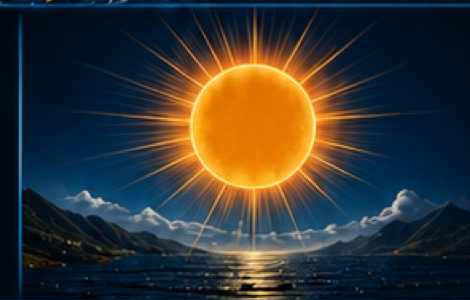
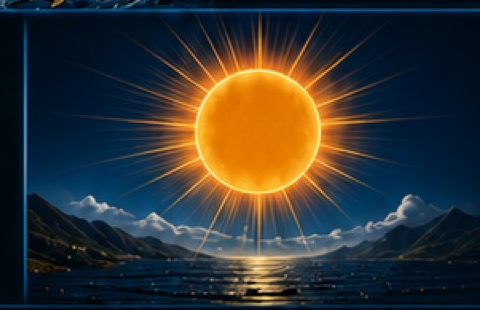
Add files via upload
Update

diff --git a/style.css b/style.css
@@ -5447,3 +5447,363 @@ body.reference-layout-v3 img.premium-weather-scene {
   object-position: center 72% !important;
   border-radius: 8px !important;
 }
+
+/* =========================================================
+   STABLE VISUAL CLOSEOUT — moon clean, activity factors,
+   header fish, hourly, techniques, single titles
+========================================================= */
+
+/* HEADER fish closer to title */
+body.reference-layout-v3 .top-header.final-master-header {
+  display: grid !important;
+  grid-template-columns: 28px minmax(0, 1fr) 64px !important;
+  column-gap: 1px !important;
+  align-items: center !important;
+  padding: 2px 3px !important;
+  overflow: hidden !important;
+}
+body.reference-layout-v3 .top-header .header-brand-lockup.brand-area {
+  display: grid !important;
+  grid-template-columns: 90px minmax(0, 1fr) 90px !important;
+  column-gap: 0 !important;
+  align-items: center !important;
+}
+body.reference-layout-v3 .top-header .header-fish-asset.brand-fish {
+  width: 90px !important;
+  height: 52px !important;
+  object-fit: contain !important;
+}
+body.reference-layout-v3 .top-header .header-fish-left {
+  object-position: 100% 50% !important;
+  transform: translateX(12px) !important;
+}
+body.reference-layout-v3 .top-header .header-fish-right {
+  object-position: 0% 50% !important;
+  transform: translateX(-12px) !important;
+}
+body.reference-layout-v3 .top-header .header-brand-title {
+  font-size: 10px !important;
+  white-space: nowrap !important;
+}
+
+/* MOON — clean sphere, yellow times */
+body.reference-layout-v3 .moon-panel {
+  overflow: hidden !important;
+  display: flex !important;
+  flex-direction: column !important;
+}
+body.reference-layout-v3 .moon-panel .moon-main {
+  display: grid !important;
+  grid-template-columns: 68px 1fr !important;
+  gap: 8px !important;
+  align-items: center !important;
+  padding: 6px 8px 2px !important;
+  overflow: hidden !important;
+}
+body.reference-layout-v3 .moon-panel .master-moon-photo,
+body.reference-layout-v3 .moon-panel img.premium-moon {
+  width: 68px !important;
+  height: 68px !important;
+  border-radius: 50% !important;
+  object-fit: cover !important;
+  object-position: center center !important;
+  display: block !important;
+  background: #0a1018 !important;
+}
+body.reference-layout-v3 .moon-panel .moon-copy strong {
+  font-size: 24px !important;
+  line-height: 1 !important;
+  color: #fff !important;
+}
+body.reference-layout-v3 .moon-panel .moon-copy span {
+  font-size: 9.5px !important;
+  line-height: 1.25 !important;
+  color: #d4eaf6 !important;
+  display: block !important;
+  white-space: normal !important;
+}
+body.reference-layout-v3 .moon-panel .moon-times {
+  display: grid !important;
+  grid-template-columns: 1fr 1fr !important;
+  gap: 6px !important;
+  padding: 4px 10px 6px !important;
+  border-top: 1px solid rgba(90,150,190,0.25) !important;
+}
+body.reference-layout-v3 .moon-panel .moon-times > div {
+  display: flex !important;
+  flex-direction: column !important;
+  gap: 1px !important;
+}
+body.reference-layout-v3 .moon-panel .moon-times > div > svg {
+  display: none !important;
+}
+body.reference-layout-v3 .moon-panel .moon-times span {
+  font-size: 7px !important;
+  color: #9ec5d8 !important;
+}
+body.reference-layout-v3 .moon-panel .moon-times strong {
+  font-size: 12px !important;
+  color: #ffd331 !important;
+  font-weight: 800 !important;
+}
+
+/* HOURLY labels full */
+body.reference-layout-v3 .weather-hour-cell {
+  min-width: 50px !important;
+}
+body.reference-layout-v3 .weather-hour-cell strong {
+  font-size: 6.5px !important;
+  line-height: 1.2 !important;
+  white-space: normal !important;
+  overflow: visible !important;
+  max-height: none !important;
+  display: block !important;
+  text-align: center !important;
+}
+body.reference-layout-v3 .weather-hour-cell > span:last-child {
+  display: block !important;
+  font-size: 8px !important;
+  color: #c5dcec !important;
+  text-align: center !important;
+}
+
+/* SCORE single title */
+body.reference-layout-v3 .score-panel > h2 {
+  display: block !important;
+  font-size: 9px !important;
+  letter-spacing: 0.14em !important;
+  color: #9ecfe8 !important;
+  text-align: center !important;
+  margin: 2px 0 0 !important;
+}
+body.reference-layout-v3 .score-master-photo {
+  display: block !important;
+  width: 100% !important;
+  max-height: 160px !important;
+  object-fit: contain !important;
+}
+body.reference-layout-v3 .score-panel .score-gauge,
+body.reference-layout-v3 .score-panel .score-caption,
+body.reference-layout-v3 .score-panel .score-stars,
+body.reference-layout-v3 .score-panel .score-rod-photo {
+  display: none !important;
+}
+
+/* ACTIVITY — single title, fix factors rows */
+body.reference-layout-v3 .activity-panel {
+  display: flex !important;
+  flex-direction: column !important;
+  padding: 4px 8px 6px !important;
+  overflow: hidden !important;
+}
+body.reference-layout-v3 .activity-panel > h2 {
+  display: block !important;
+  font-size: 9px !important;
+  letter-spacing: 0.12em !important;
+  text-align: center !important;
+  color: #9ecfe8 !important;
+  margin: 2px 0 4px !important;
+  flex-shrink: 0 !important;
+}
+/* Hide any baked title overlay if present */
+body.reference-layout-v3 .activity-panel .activity-art > h2,
+body.reference-layout-v3 .activity-art h2 {
+  display: none !important;
+}
+body.reference-layout-v3 .activity-fish-photo {
+  height: 68px !important;
+  width: auto !important;
+  max-width: 100% !important;
+  object-fit: contain !important;
+  display: block !important;
+  margin: 0 auto !important;
+}
+body.reference-layout-v3 .activity-spectrum {
+  display: flex !important;
+  width: 100% !important;
+  height: 8px !important;
+  margin: 6px 0 2px !important;
+  border-radius: 4px !important;
+  overflow: hidden !important;
+  position: relative !important;
+  background: transparent !important;
+}
+body.reference-layout-v3 .activity-spectrum span {
+  flex: 1 1 0 !important;
+  height: 100% !important;
+}
+body.reference-layout-v3 .activity-spectrum span:nth-child(1) { background: #ff5d4a !important; }
+body.reference-layout-v3 .activity-spectrum span:nth-child(2) { background: #ff8a22 !important; }
+body.reference-layout-v3 .activity-spectrum span:nth-child(3) { background: #ffd331 !important; }
+body.reference-layout-v3 .activity-spectrum span:nth-child(4) { background: #b7e11a !important; }
+body.reference-layout-v3 .activity-spectrum span:nth-child(5) { background: #20d66b !important; }
+body.reference-layout-v3 .activity-spectrum-marker {
+  position: absolute !important;
+  top: 0 !important;
+  bottom: 0 !important;
+  width: 3px !important;
+  background: #fff !important;
+  left: var(--activity-percent, 85%) !important;
+  transform: translateX(-50%) !important;
+  border-radius: 1px !important;
+}
+body.reference-layout-v3 .activity-scale {
+  display: flex !important;
+  justify-content: space-between !important;
+  width: 100% !important;
+  font-size: 7px !important;
+  color: #8eb4c8 !important;
+}
+body.reference-layout-v3 .activity-verdict {
+  text-align: center !important;
+  font-size: 8px !important;
+  color: #c5dcec !important;
+  margin: 3px 0 6px !important;
+  letter-spacing: 0.05em !important;
+  white-space: nowrap !important;
+}
+
+/* CRITICAL: factors as proper rows, not smashed */
+body.reference-layout-v3 .activity-factors,
+body.reference-layout-v3 .activity-list,
+body.reference-layout-v3 #fish-activity-factors {
+  display: flex !important;
+  flex-direction: column !important;
+  gap: 3px !important;
+  width: 100% !important;
+  margin: 0 !important;
+  padding: 0 !important;
+  overflow: visible !important;
+  flex-wrap: nowrap !important;
+}
+body.reference-layout-v3 #fish-activity-factors > div,
+body.reference-layout-v3 .activity-list > div,
+body.reference-layout-v3 .activity-factors > div {
+  display: flex !important;
+  flex-direction: row !important;
+  justify-content: space-between !important;
+  align-items: center !important;
+  width: 100% !important;
+  gap: 8px !important;
+  padding: 1px 0 !important;
+  margin: 0 !important;
+  white-space: nowrap !important;
+  overflow: visible !important;
+  flex-wrap: nowrap !important;
+}
+body.reference-layout-v3 #fish-activity-factors > div > span,
+body.reference-layout-v3 .activity-list > div > span {
+  font-size: 9px !important;
+  color: #a8c8dc !important;
+  flex: 0 0 auto !important;
+}
+body.reference-layout-v3 #fish-activity-factors > div > strong,
+body.reference-layout-v3 .activity-list > div > strong {
+  font-size: 9px !important;
+  color: #3dff9a !important;
+  font-weight: 700 !important;
+  text-align: right !important;
+  flex: 0 0 auto !important;
+}
+
+/* BEST TIMES */
+body.reference-layout-v3 .best-times-strip,
+body.reference-layout-v3 [data-layout-group="best-times"],
+body.reference-layout-v3 .panel.best-times {
+  overflow: hidden !important;
+}
+
+/* TECHNIQUES even gaps */
+body.reference-layout-v3 .technique-section {
+  border: none !important;
+  background: transparent !important;
+  padding: 2px 2px 6px !important;
+  margin: 0 !important;
+}
+body.reference-layout-v3 .technique-section::before {
+  display: none !important;
+}
+body.reference-layout-v3 .technique-heading {
+  margin: 0 0 4px !important;
+  padding: 0 !important;
+}
+body.reference-layout-v3 .technique-heading h2 {
+  font-size: 10px !important;
+  letter-spacing: 0.14em !important;
+  color: #9ecfe8 !important;
+  margin: 0 !important;
+}
+body.reference-layout-v3 .technique-grid.technique-scroll {
+  display: grid !important;
+  grid-template-columns: repeat(4, minmax(0, 1fr)) !important;
+  gap: 6px !important;
+  padding: 0 !important;
+  margin: 0 !important;
+  border: none !important;
+  overflow: visible !important;
+}
+body.reference-layout-v3 .technique-card {
+  border: 1px solid rgba(60,120,160,0.28) !important;
+  border-radius: 10px !important;
+  margin: 0 !important;
+  padding: 0 !important;
+  overflow: hidden !important;
+  background: #061018 !important;
+  box-shadow: none !important;
+}
+body.reference-layout-v3 .technique-card::before {
+  display: none !important;
+}
+body.reference-layout-v3 .technique-card .technique-icon {
+  height: 128px !important;
+  min-height: 128px !important;
+  margin: 0 !important;
+  border: none !important;
+}
+body.reference-layout-v3 .technique-card .technique-photo {
+  width: 100% !important;
+  height: 128px !important;
+  object-fit: cover !important;
+  object-position: center top !important;
+  display: block !important;
+}
+body.reference-layout-v3 .technique-card > strong,
+body.reference-layout-v3 .technique-card .technique-stars,
+body.reference-layout-v3 .technique-card .technique-rating-label,
+body.reference-layout-v3 .technique-card .technique-dot {
+  display: none !important;
+}
+
+/* Alerts icons slightly clearer */
+body.reference-layout-v3 .alert-list .alert-symbol {
+  width: 22px !important;
+  height: 22px !important;
+  display: grid !important;
+  place-items: center !important;
+  border-radius: 6px !important;
+  background: rgba(30,90,130,0.35) !important;
+  flex-shrink: 0 !important;
+}
+body.reference-layout-v3 .alert-list .alert-symbol i {
+  font-size: 11px !important;
+}
+
+/* Sun sea */
+body.reference-layout-v3 img.premium-sun-photo,
+body.reference-layout-v3 img.premium-weather-scene {
+  height: 90px !important;
+  object-fit: cover !important;
+  object-position: center 70% !important;
+}
+body.reference-layout-v3 .score-activity-row {
+  display: grid !important;
+  grid-template-columns: 1fr 1.25fr !important;
+  gap: 6px !important;
+  align-items: stretch !important;
+  min-height: 0 !important;
+}
+body.reference-layout-v3 .score-activity-row > .panel {
+  min-height: 0 !important;
+  height: auto !important;
+  overflow: hidden !important;
+}
